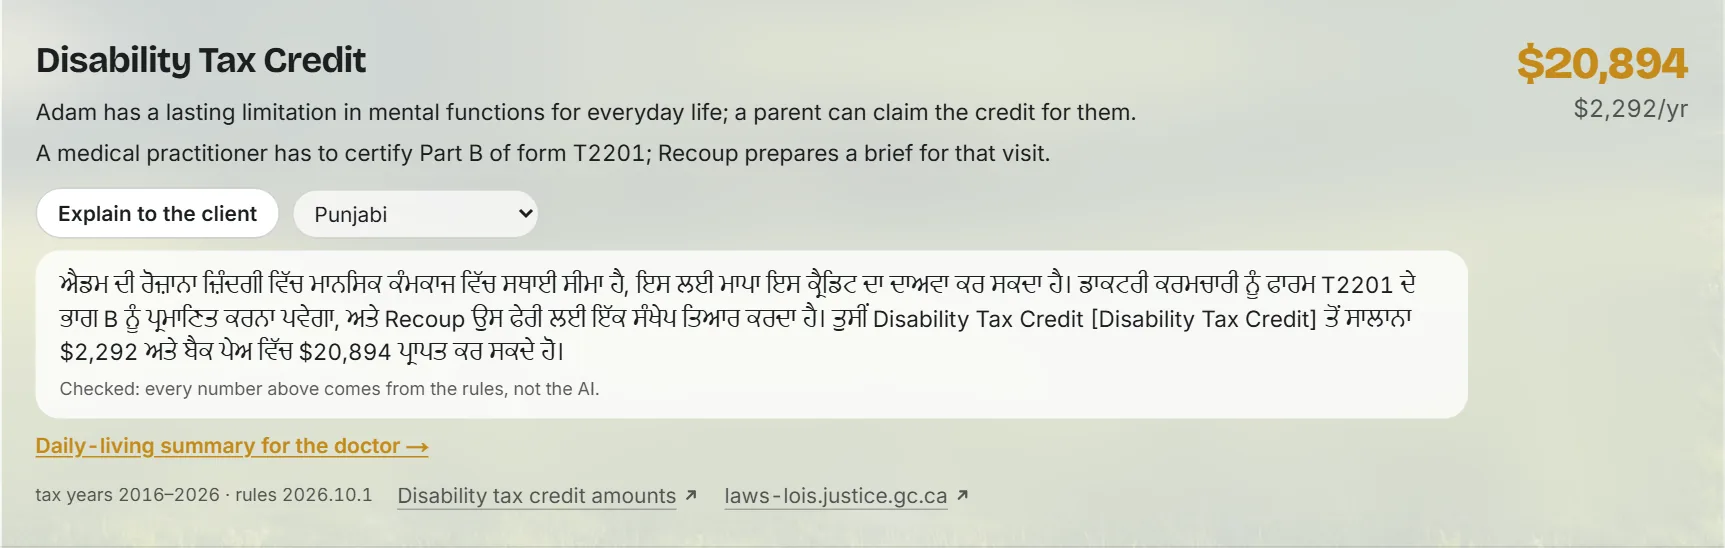
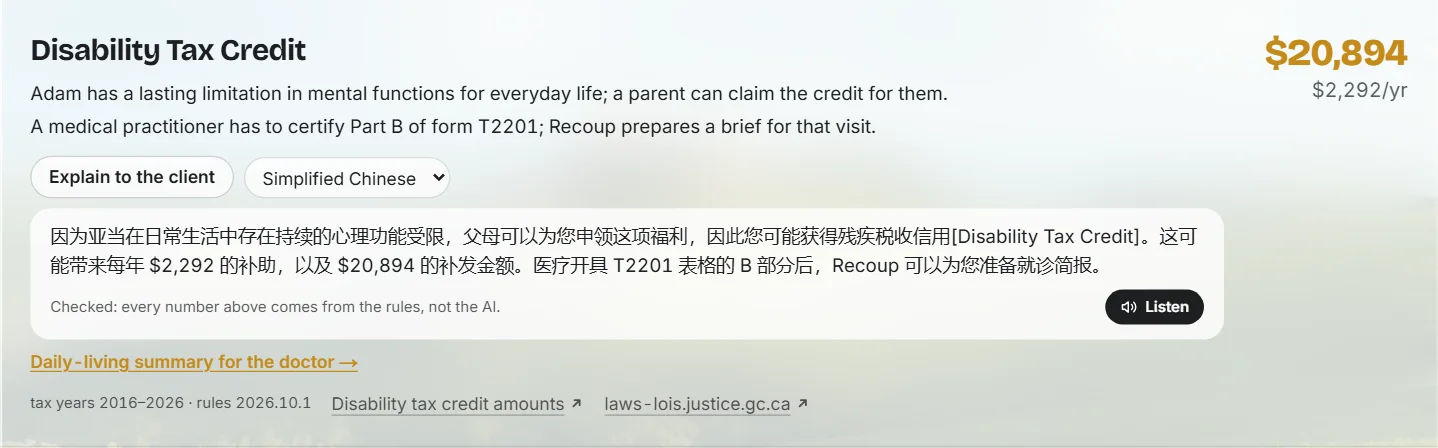
update the readme for read-aloud explanations

diff --git a/README.md b/README.md
@@ -80,11 +80,12 @@ is likely owed, prepare the paperwork, and follow each application until the mon
 | **8 referral flags** | ODSP, CPP Disability, RDSP, Canada Learning Bond, OAS Allowance, OESP, Healthy Smiles Ontario and Ontario Seniors Dental Care, which the engine doesn't calculate yet |
 | **Sourced parameters** | Every number is stored as `{value, benefitYear, sourceUrl}` and shown on the "How it decides" page |
 | **Honest uncertainty** | Unconfirmed facts count as unknown, so a result stays "possible" until staff confirm them. Deadlines (like DTC years that expire on Dec 31) are flagged. |
-| **Explain to the client** | One click rewrites the reasons in plain words in Punjabi, Tamil, Arabic, Simplified Chinese, Urdu, Tagalog, French, Spanish or English. If the AI's text contains any number the rules didn't produce, the rule's own wording is shown instead. |
+| **Explain to the client** | One click rewrites the reasons in plain words in Simplified Chinese, Arabic, Tamil, Urdu, Tagalog, Punjabi, French, Spanish or English. If the AI's text contains any number the rules didn't produce, the rule's own wording is shown instead. |
+| **Read it aloud** | **Listen** reads the explanation to the client in their language with Gemini's text-to-speech, for clients who'd rather hear it than read it. The voice only reads text that passed the number check. |
 
 <div align="center">
-  <img src="./docs/images/explain.webp" alt="A result explained in Punjabi" width="800"/>
-  <p><em>A Disability Tax Credit result explained in Punjabi; every number checked against the rules</em></p>
+  <img src="./docs/images/explain.webp" alt="A result explained in Simplified Chinese, ready to read aloud" width="800"/>
+  <p><em>A Disability Tax Credit result explained in Simplified Chinese, with Listen to hear it read aloud; every number checked against the rules</em></p>
 </div>
 
 ### 📝 Paperwork
@@ -145,6 +146,7 @@ is likely owed, prepare the paperwork, and follow each application until the mon
 **AI**
 
 ![Gemini](https://img.shields.io/badge/Google_Gemini-8E75B2?style=for-the-badge&logo=googlegemini&logoColor=white)
+![Gemini TTS](https://img.shields.io/badge/Gemini_TTS-8E75B2?style=for-the-badge&logo=googlegemini&logoColor=white)
 ![Web Speech API](https://img.shields.io/badge/Web_Speech_API-4285F4?style=for-the-badge&logo=googlechrome&logoColor=white)
 ![ElevenLabs](https://img.shields.io/badge/ElevenLabs_%28demo_voices%29-000000?style=for-the-badge&logo=elevenlabs&logoColor=white)
 
@@ -212,7 +214,7 @@ components/
   glass/                     Liquid Glass (SVG displacement)
 lib/
   rules/                     the rules engine, one file per program, params/*.json with sources
-  ai/                        Gemini client, fact extraction, document reader, follow-ups
+  ai/                        Gemini client, fact extraction, document reader, follow-ups, speech
   packages/                  form filling and the doctor brief
   tracker/  simulate/        application stages, the scripted demo and the simulated month
   db/                        PGlite schema, seed data and queries
@@ -227,7 +229,7 @@ seed/                        demo personas and 50 synthetic clients
 
 - **Building it:** we used Claude and Gemini to help write the code.
 - **Inside the app:** Gemini picks out facts with the client's own words, reads tax documents, explains results in 9
-  languages and drafts follow-ups. Rules, not AI, decide eligibility and amounts.
+  languages and reads them aloud, and drafts follow-ups. Rules, not AI, decide eligibility and amounts.
 - **Demo video:** voices by ElevenLabs.
 
 ---
